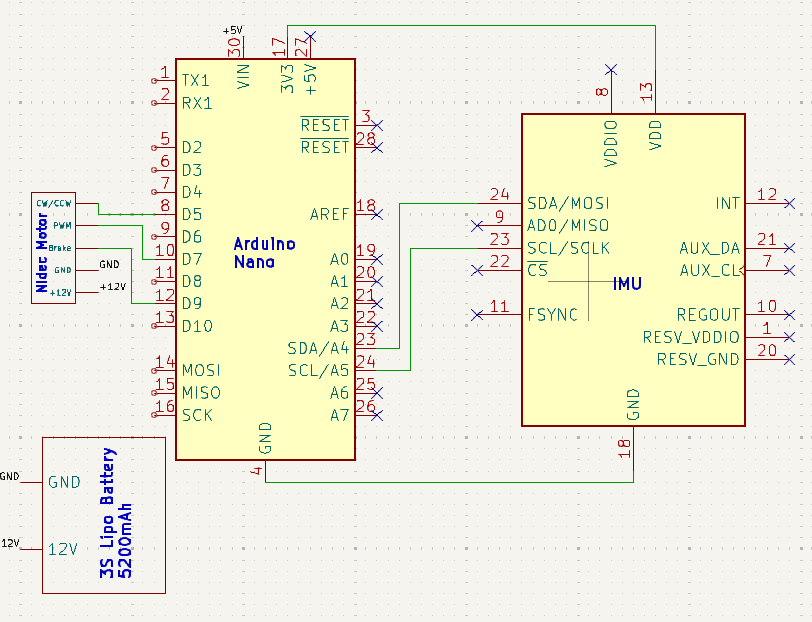
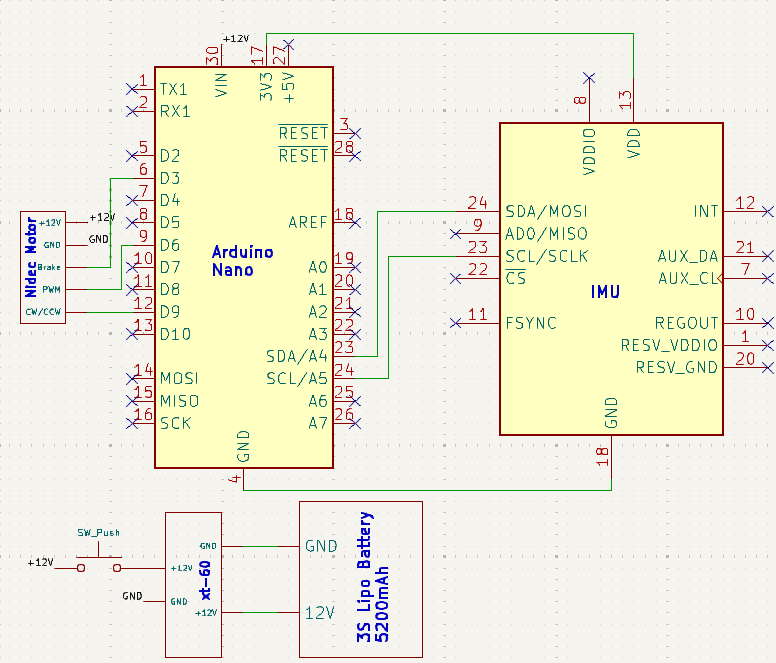
First itteration of electrical page

diff --git a/pages/electrical-design.html b/pages/electrical-design.html
@@ -1,55 +1,303 @@
-<div class="relative">
-  <!-- Image -->
-  <img src="https://encrypted-tbn2.gstatic.com/images?q=tbn:ANd9GcTNjIq_zlvr3PguKVtBJ-DTJqCav-doacUyYIGhlq4Cfv4Q1UZs" alt="Interactive Image" class="w-full h-auto" />
+<!DOCTYPE html>
+<html lang="en">
+  <head>
+    <meta charset="UTF-8" />
+    <meta name="viewport" content="width=device-width, initial-scale=1.0" />
+    <title>Electical Design</title>
+    <link rel="icon" type="image/png" href="../cube_cad.png" />
+    <script src="https://cdn.tailwindcss.com"></script>
+    <style>
+      /* Custom transition for smooth scrolling */
+      html {
+        scroll-behavior: smooth;
+      }
+      .hamburger-menu {
+        position: fixed;
+        top: 1rem;
+        right: 1rem;
+        z-index: 50;
+        cursor: pointer;
+      }
+      .menu-overlay {
+        position: fixed;
+        inset: 0;
+        background: rgba(0, 0, 0, 0.9);
+        color: white;
+        display: flex;
+        flex-direction: column;
+        justify-content: center;
+        align-items: center;
+        opacity: 0;
+        pointer-events: none;
+        transition: opacity 0.3s ease;
+        z-index: 40;
+      }
+      .menu-overlay.active {
+        opacity: 1;
+        pointer-events: auto;
+      }
+      .menu-overlay a {
+        text-decoration: none;
+        color: white;
+        font-size: 1.5rem;
+        margin: 1rem 0;
+        transition: color 0.3s ease;
+      }
+      .menu-overlay a:hover {
+        color: gray;
+      }
+      .image-container {
+        position: relative;
+        width: 100%;
+        max-width: 800px; /* Limit the image size */
+        margin: 0 auto; /* Center the image */
+      }
 
-  <!-- Clickable Area 1 -->
-  <div
-    class="absolute top-10 left-20 bg-blue-500 bg-opacity-50 rounded-full w-10 h-10 cursor-pointer"
-    onclick="togglePopup('popup1')"
-  ></div>
+      .image-container img {
+        width: 100%;
+        height: auto;
+        display: block;
+      }
 
-  <!-- Clickable Area 2 -->
-  <div
-    class="absolute top-40 left-60 bg-red-500 bg-opacity-50 rounded-full w-10 h-10 cursor-pointer"
-    onclick="togglePopup('popup2')"
-  ></div>
+      .point {
+        position: absolute;
+        width: 10px;
+        height: 10px;
+        background-color: red;
+        border-radius: 50%;
+        cursor: pointer;
+        transform: translate(-50%, -50%);
+      }
 
-  <!-- Popup 1 -->
-  <div
-    id="popup1"
-    class="hidden absolute top-16 left-24 bg-white shadow-lg p-4 rounded-md border"
-  >
-    <p class="text-gray-800">This is the description for Area 1.</p>
-    <button
-      class="mt-2 text-blue-500 hover:underline"
-      onclick="togglePopup('popup1')"
+      .popup {
+        position: absolute;
+        display: none;
+        background-color: #fff;
+        border: 1px solid #ccc;
+        padding: 10px;
+        box-shadow: 0 4px 8px rgba(0, 0, 0, 0.2);
+      }
+      .popup::after {
+        content: "";
+        position: absolute;
+        top: 100%;
+        left: 50%;
+        margin-left: -5px;
+        border-width: 5px;
+        border-style: solid;
+        border-color: #fff transparent transparent transparent;
+      }
+    </style>
+  </head>
+  <body class="font-sans">
+    <!-- Top-right Home Button -->
+    <a href="../index.html" class="absolute top-4 left-4 z-50">
+      <p class="text-white text-lg md:text-2xl mt-4">The Cube</p>
+      <!-- <img
+        src="../images/home.jpg"
+        alt="Home"
+        class="w-20 h-20 hover:opacity-75 transition-opacity"
+      /> -->
+    </a>
+    <!-- Hamburger Menu -->
+    <div id="hamburger" class="hamburger-menu">
+      <svg
+        xmlns="http://www.w3.org/2000/svg"
+        class="h-8 w-8 text-white"
+        fill="none"
+        viewBox="0 0 24 24"
+        stroke="currentColor"
+        stroke-width="2"
+      >
+        <path
+          stroke-linecap="round"
+          stroke-linejoin="round"
+          d="M4 6h16M4 12h16m-7 6h7"
+        />
+      </svg>
+    </div>
+
+    <!-- Menu Overlay -->
+    <div id="menu" class="menu-overlay">
+      <a href="../index.html">Home</a>
+      <a href="system-overview.html">System Overview</a>
+      <a href="our-journey.html">Our Journey</a>
+      <a href="bill-of-materials.html">Bill of Materials</a>
+      <a href="mechanical-design.html">Mechanical Design</a>
+      <a href="firmware-design.html">Firmware Design</a>
+      <a href="electrical-design.html">Electical Design</a>
+    </div>
+
+    <!-- Header Section with Background Image -->
+    <div
+      class="relative h-96 bg-cover bg-center"
+      style="background-image: url('../images/cube/cube_02.jpeg')"
     >
-      Close
-    </button>
-  </div>
+      <div
+        class="absolute inset-0 bg-black bg-opacity-50 flex flex-col items-center justify-center text-center"
+      >
+        <h1 class="text-white text-4xl font-bold">Electical Design</h1>
+      </div>
+    </div>
 
-  <!-- Popup 2 -->
-  <div
-    id="popup2"
-    class="hidden absolute top-48 left-64 bg-white shadow-lg p-4 rounded-md border"
-  >
-    <p class="text-gray-800">This is the description for Area 2.</p>
-    <button
-      class="mt-2 text-blue-500 hover:underline"
-      onclick="togglePopup('popup2')"
-    >
-      Close
-    </button>
-  </div>
-</div>
+    <!-- Content Section -->
+    <div class="py-12 bg-gray-100">
+      <div class="container mx-auto px-6 text-center">
+        <p class="text-lg">
+          Our electrical system consisted of a 12V Nidec brushless servo motor
+          driven by a PWM signal generated by an Arduino Nano. The Nidec motors
+          had a built-in drive, so no external motor drive circuit such as an
+          electronic speed controller (ESC) was required which simplified our
+          design. All necessary connections were made on a perforated board
+          (perf board), which also supported the Arduino Nano. To obtain
+          positional data of the cube, we used an MPU9250 inertial measurement
+          unit (IMU), providing both accelerometer and gyroscope readings. The
+          IMU was connected to the Arduino Nano through the same perf board.
+        </p>
+        <p class="my-4"></p>
+        <!-- Spacer -->
+        <p class="text-lg">
+          For power, we employed a 2200 mAh, 12V LiPo battery. This battery was
+          linked to the Arduino Nano via the perf board and a switch for
+          controlled activation/deactivation. Since the Nano has an onboard
+          voltage regulator, even though we were supplying 12V, the regulator
+          steps it down to a safe operating voltage of 5V. This allows the
+          microcontroller on the Nano and the IMU to function without being
+          damaged by the higher input voltage. An XT60 connector facilitated the
+          connection of the battery to the system’s power input.
+        </p>
 
-<script>
-  function togglePopup(id) {
-    const popup = document.getElementById(id);
-    if (popup.classList.contains('hidden')) {
-      popup.classList.remove('hidden');
-    } else {
-      popup.classList.add('hidden');
-    }
-  }
-</script>
+        <!-- Image with Caption -->
+        <figure class="mt-8">
+          <div class="image-container">
+            <img
+              src="../images/electrical_schematic.png"
+              alt="Interactive Map"
+              style="width: 100%; max-width: 800px; height: auto"
+            />
+            <div
+              class="point"
+              style="top: 87%; left: 45%"
+              data-info="2200 mAh, 12V LiPo battery: A rechargeable battery providing a stable 12V supply and sufficient capacity to power the motor, control electronics, and sensors."
+            ></div>
+            <div
+              class="point"
+              style="top: 78%; left: 13%"
+              data-info="Switch: A manual power control component integrated into the circuit to enable or disable the entire system’s power from the battery.
+"
+            ></div>
+            <div
+              class="point"
+              style="top: 40%; left: 5%"
+              data-info="12V Nidec brushless servo motor: A high-performance motor capable of precise speed and position control when driven by a pulse-width modulated (PWM) signal. It connects to our flywheel via the motor shaft to generate rotational energy that allows our cube to balance."
+            ></div>
+            <div
+              class="point"
+              style="top: 40%; left: 30%"
+              data-info="Arduino Nano: Microcontroller used for generating PWM signals for the servo motor and processing sensor data from the IMU."
+            ></div>
+            <div
+              class="point"
+              style="top: 41%; left: 78%"
+              data-info="MPU9250 (IMU): An inertial measurement unit that combines a 3-axis accelerometer, 3-axis gyroscope, and a 3-axis magnetometer, providing real-time orientation, movement, position, and magnetic field data for enhanced system analysis and control feedback."
+            ></div>
+            <div
+              class="point"
+              style="top: 87%; left: 24%"
+              data-info="XT60 Connector: High-current DC connector used to link the LiPo battery’s output to the system, ensuring a secure power connection."
+            ></div>
+            <div class="popup" id="popup"></div>
+          </div>
+          <figcaption class="mt-4 text-sm text-gray-700">
+            Figure 1: Electrical schematic showing the connections between
+            components.
+          </figcaption>
+        </figure>
+
+        <p class="my-4"></p>
+        <!-- Spacer -->
+        <p class="text-lg"></p>
+      </div>
+    </div>
+
+    <script>
+      const hamburger = document.getElementById("hamburger");
+      const menu = document.getElementById("menu");
+
+      // Toggle the menu when the hamburger icon is clicked
+      hamburger.addEventListener("click", () => {
+        menu.classList.toggle("active");
+      });
+
+      // Close the menu when a link is clicked
+      menu.addEventListener("click", (event) => {
+        if (event.target.tagName === "A") {
+          menu.classList.remove("active");
+        }
+      });
+      const points = document.querySelectorAll(".point");
+      const image = document.querySelector(".image-container img");
+      const container = document.querySelector(".image-container");
+
+      const dotPositions = [
+        { top: 87, left: 45 },
+        { top: 78, left: 13 },
+        { top: 40, left: 5 }, // Original percentage positions
+        { top: 40, left: 30 },
+        { top: 41, left: 78 },
+        { top: 87, left: 24 },
+        { top: 78, left: 13 },
+      ];
+
+      // Function to update dot positions
+      function updateDotPositions() {
+        const containerRect = container.getBoundingClientRect();
+
+        points.forEach((point, index) => {
+          const { top, left } = dotPositions[index];
+          point.style.top = `${(top / 100) * containerRect.height}px`;
+          point.style.left = `${(left / 100) * containerRect.width}px`;
+        });
+      }
+
+      // Update positions on load and resize
+      window.addEventListener("resize", updateDotPositions);
+      window.addEventListener("load", updateDotPositions);
+
+      points.forEach((point) => {
+        point.addEventListener("click", (e) => {
+          const info = point.getAttribute("data-info");
+          popup.style.display = "block";
+          popup.textContent = info;
+
+          // Get the bounding rectangle of the image container
+          const containerRect = document
+            .querySelector(".image-container")
+            .getBoundingClientRect();
+
+          // Get the popup dimensions
+          const popupWidth = popup.offsetWidth;
+          const popupHeight = popup.offsetHeight;
+
+          // Calculate the position, offsetting for the popup dimensions
+          popup.style.top = `${
+            e.clientY - containerRect.top - popupHeight - 10
+          }px`; // Adjust height for arrow
+          popup.style.left = `${
+            e.clientX - containerRect.left - popupWidth / 2
+          }px`; // Center horizontally
+        });
+      });
+
+      // Hide popup when clicking outside
+      document.addEventListener("click", (e) => {
+        console.log(e.pageX);
+        console.log(e.pageY);
+
+        if (!e.target.classList.contains("point")) {
+          popup.style.display = "none";
+        }
+      });
+    </script>
+  </body>
+</html>
